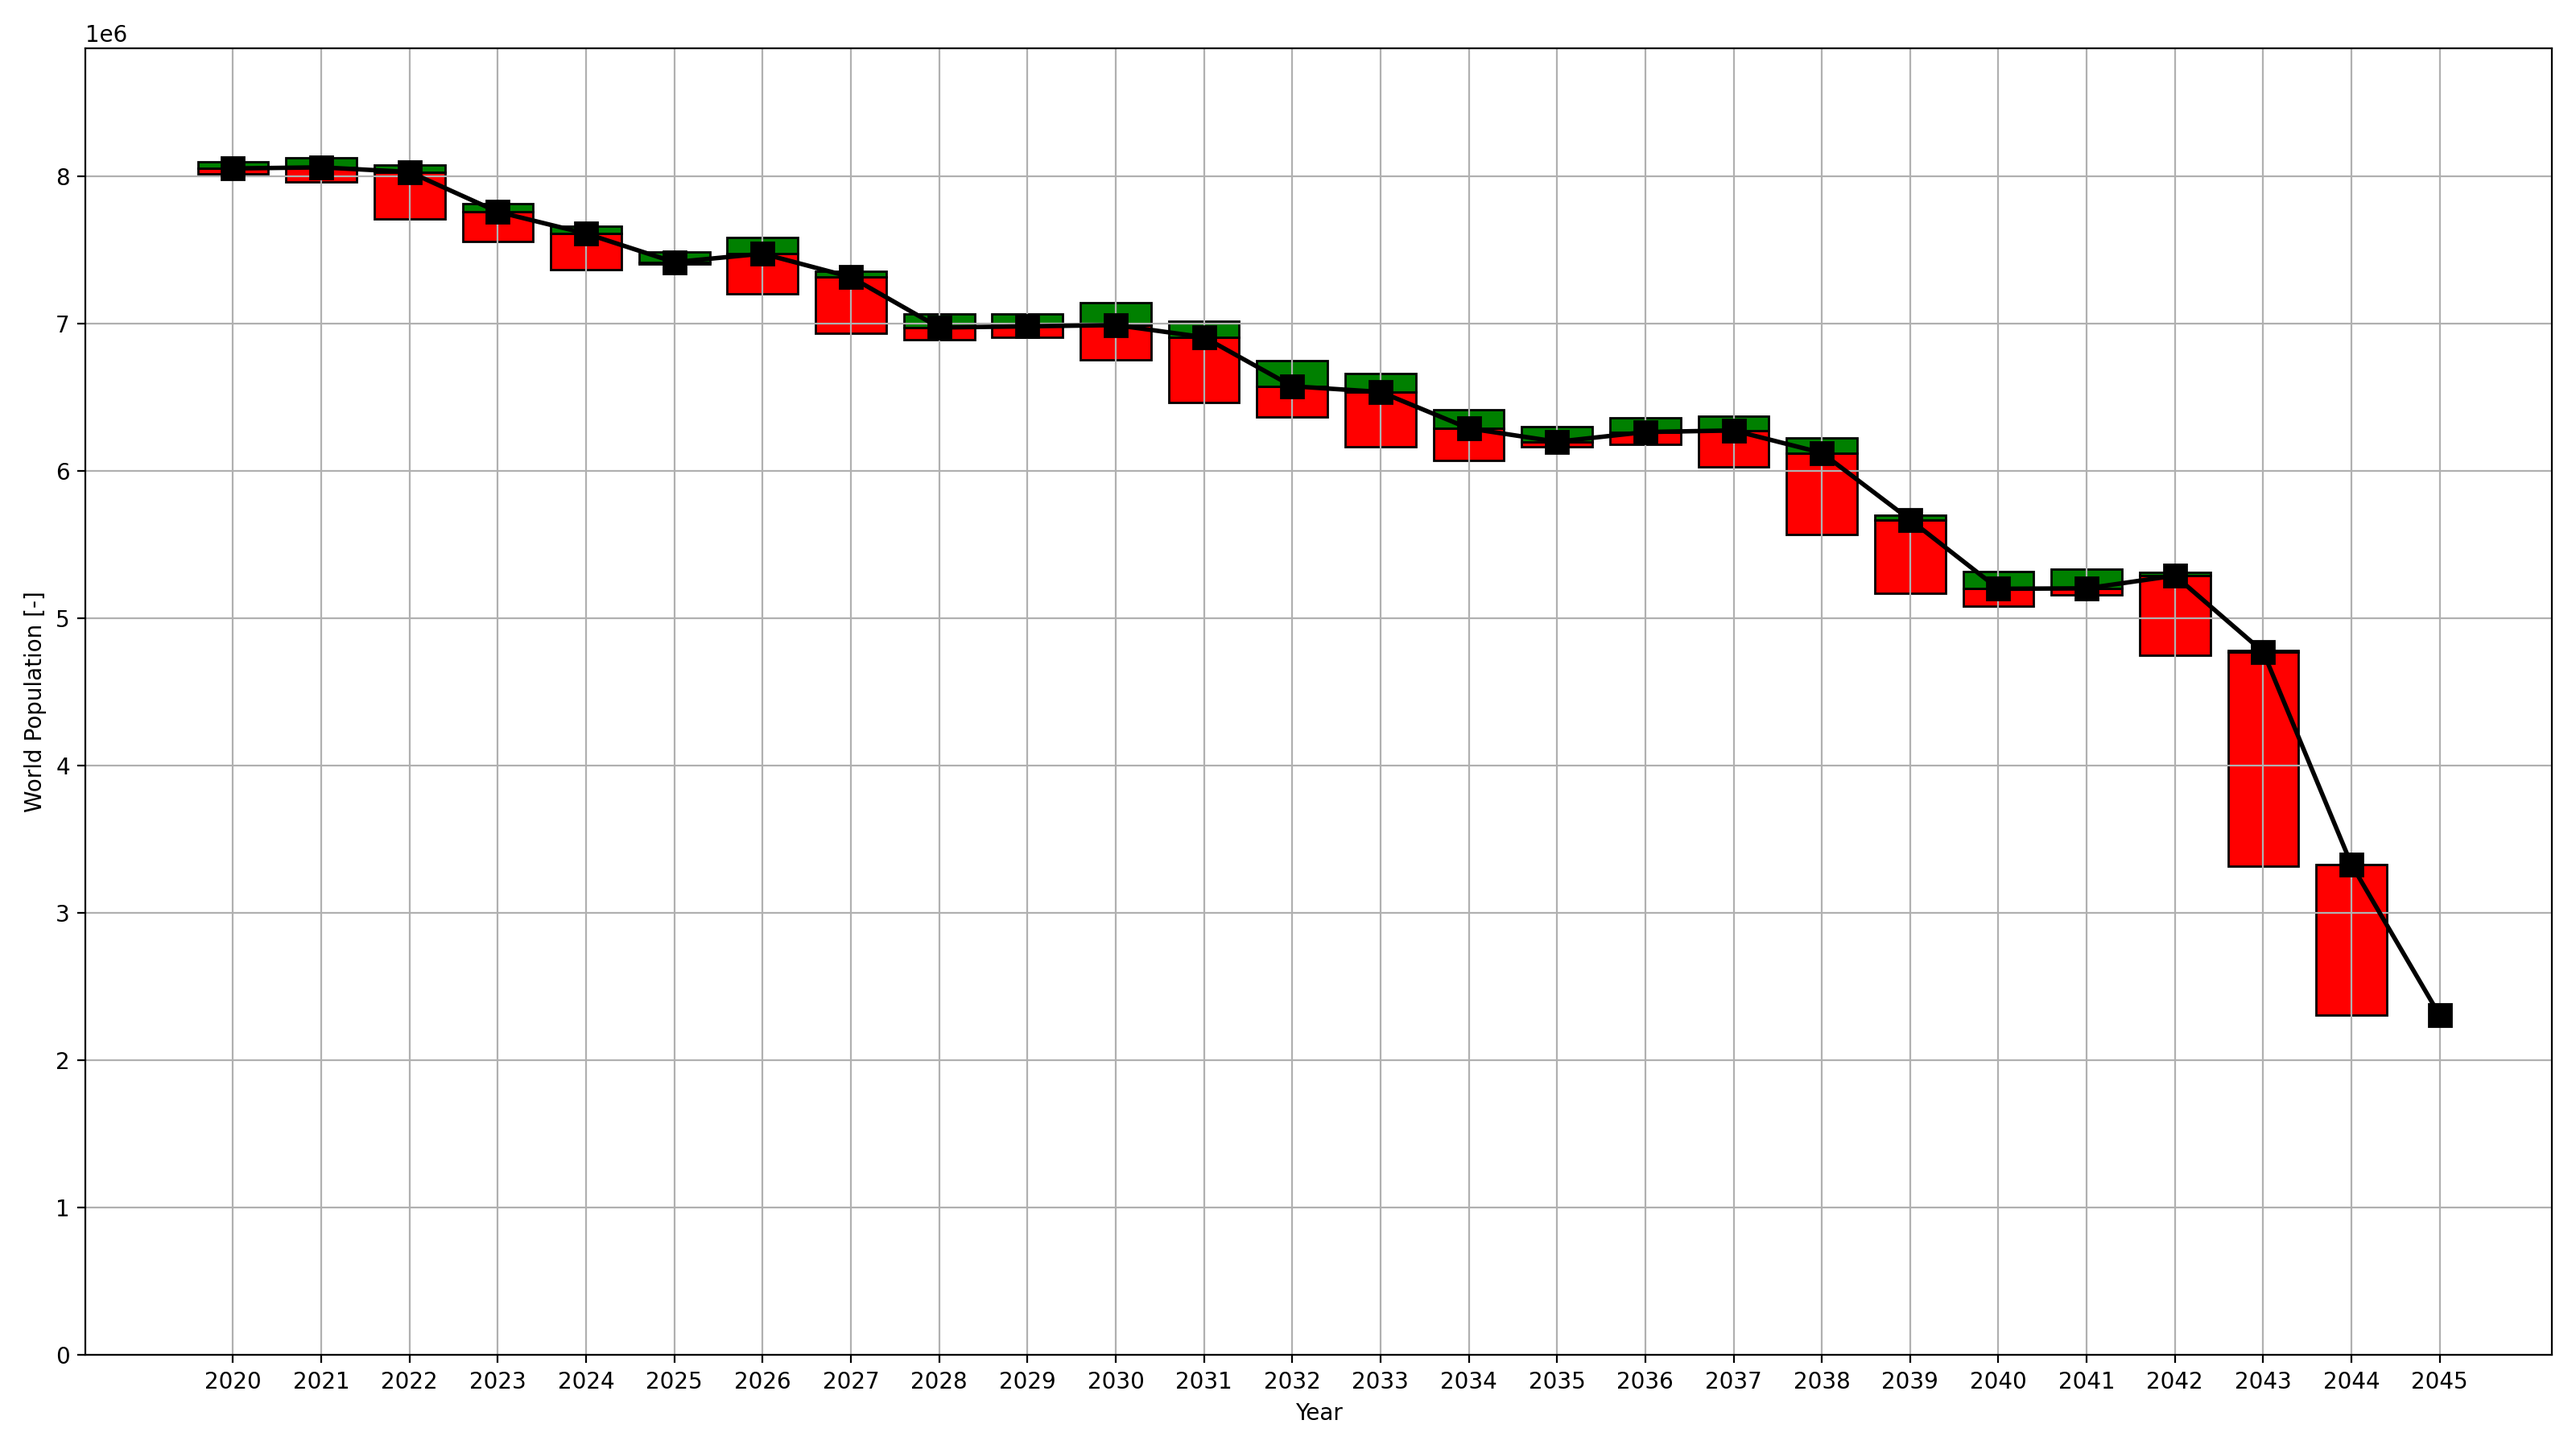
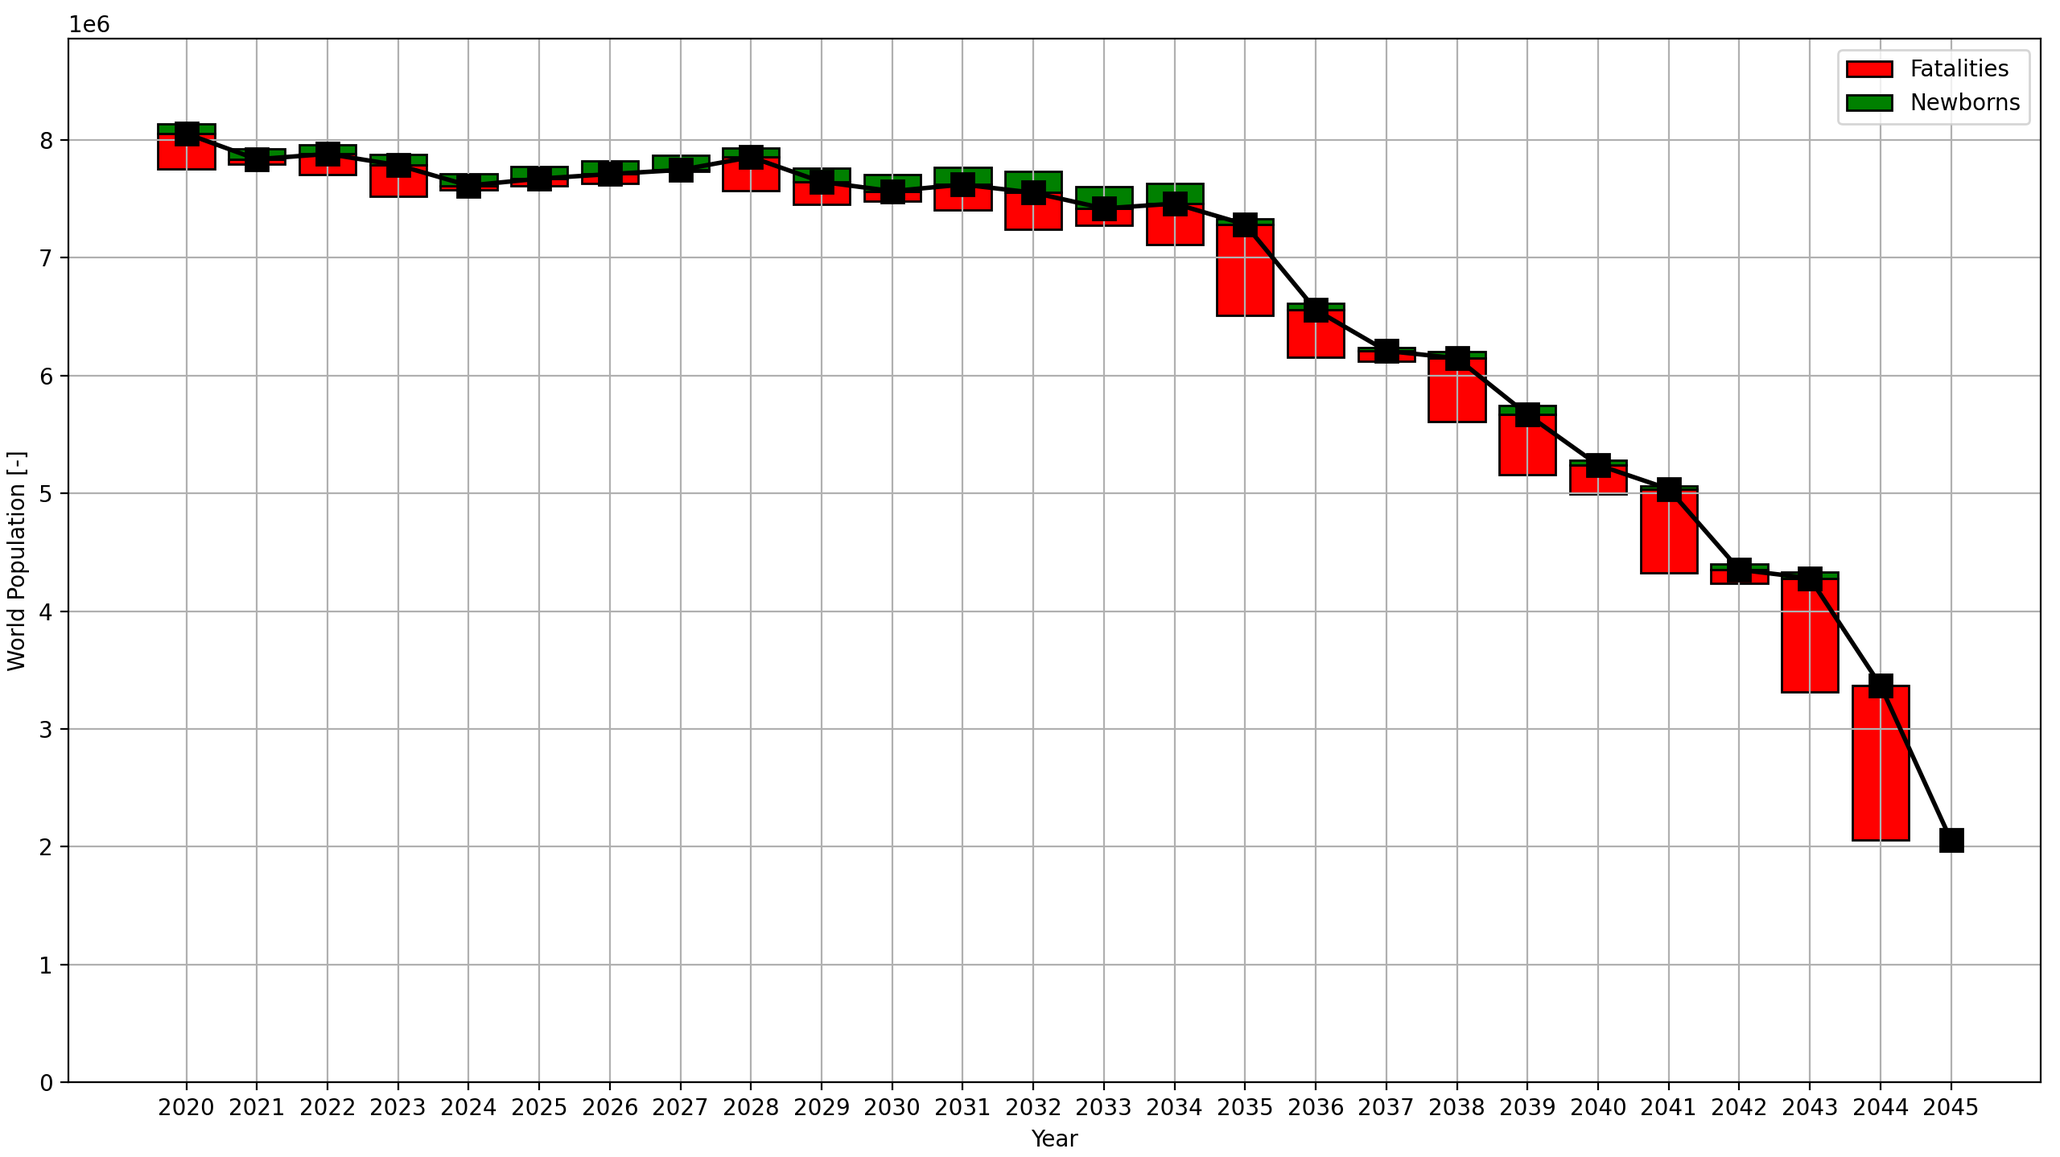
Implemented changes after review. Ready for merge (more features shall be added in the (near) future, probably from another issue.

diff --git a/src/HistoricStatistician.py b/src/HistoricStatistician.py
@@ -12,7 +12,7 @@ import numpy as np
 import AuxiliaryTools
 import matplotlib.pyplot as pltlib
 
-
+SEPARATOR = "\n" + "=" * 80 + "\n"
 
 class HistStat:
     """HistStat
@@ -43,15 +43,14 @@ class HistStat:
         """Neatly print the results"""
 
         keys_to_be_printed = ("battle_stats", "summary")
-        separator = "\n" + "=" * 80 + "\n"
 
-        print(separator)
+        print(SEPARATOR)
         for k2bp in keys_to_be_printed:
             print("\n{:s}".format(k2bp.replace("_", " ").title()))
             print("-" * len(k2bp))
             pprint.pprint(self._res[k2bp])
 
-        print(separator)
+        print(SEPARATOR)
 
 
     def plot_world_population(self) -> pltlib.figure:
@@ -63,14 +62,15 @@ class HistStat:
         growth = self._world_history["n_of_pop_increse"]
 
         fig = pltlib.figure()
-        pltlib.bar(xval[:-1], fats[1:], bottom = np.array(yval[:-1]) - np.array(fats[1:]), ec = "k", fc = "r")
-        pltlib.bar(xval[:-1], growth[1:], bottom = yval[:-1], ec = "k", fc = "g")
+        pltlib.bar(xval[:-1], fats[1:], bottom = np.array(yval[:-1]) - np.array(fats[1:]), ec = "k", fc = "r", label = "Fatalities")
+        pltlib.bar(xval[:-1], growth[1:], bottom = yval[:-1], ec = "k", fc = "g", label = "Newborns")
         pltlib.plot(xval, yval, "ks-", **self._line_plot_settings)
         pltlib.grid(True)
         pltlib.xlabel("Year")
         pltlib.xticks(ticks = xval, labels = ["{:d}".format(xv) for xv in xval])
         pltlib.ylabel("World Population [-]")
         pltlib.ylim((0, 1.1 * max(yval)))
+        pltlib.legend(loc = 1)
 
         fig.tight_layout()
 
